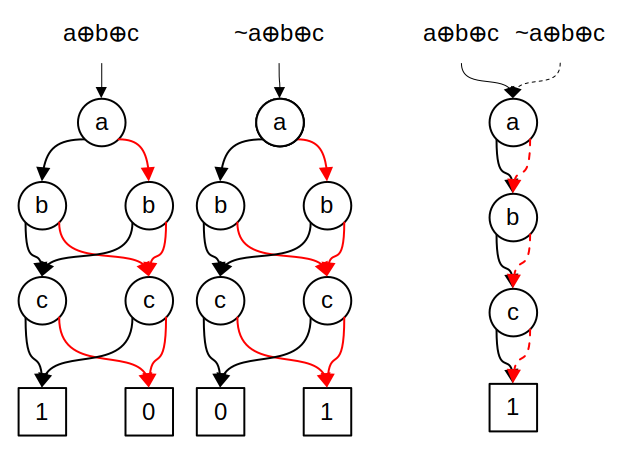
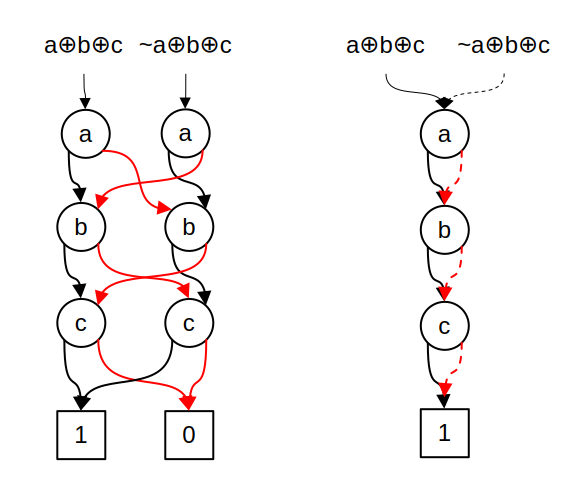
Minor changes.
1) Fix figure used in README.md.
2) Fix typos in README.md.
3) Make types consistent in BddImpl.h.

diff --git a/src/BddImpl.h b/src/BddImpl.h
@@ -29,10 +29,11 @@ const unsigned int BDD_VEC_LG_SZ = 14;
 const unsigned int BDD_VEC_SZ = (1<<BDD_VEC_LG_SZ);
 const unsigned int BDD_VEC_MASK = (BDD_VEC_SZ-1);
 
-const int DFLT_VAR_SZ = 0;
-const int DFLT_NODE_SZ = UINT32_MAX;
-const int DFLT_CACHE_SZ = (1<<20);
+const unsigned int DFLT_VAR_SZ = 0;
+const unsigned long DFLT_NODE_SZ = UINT32_MAX;
+const unsigned long DFLT_CACHE_SZ = (1<<20);
 
+const double DFLT_REORDER_GROWTH_FACTOR = 1.25;
 } // anonymous namespace
 
 
@@ -191,7 +192,9 @@ private:
   using bddCntMap = std::map<BDD, unsigned int>;
   unsigned int getNextBddVar();
   unsigned long maxSize(unsigned long startSz) {
-    return std::min(startSz + (startSz>>1), _maxNodes);
+    unsigned long maxSz = startSz * DFLT_REORDER_GROWTH_FACTOR;
+    return std::min(maxSz, _maxNodes);
+    //return std::min(startSz + (startSz>>1), _maxNodes);
   } // maxSize
   void sift_udu(unsigned int index);
   void sift_dud(unsigned int index);

diff --git a/README.md b/README.md
@@ -12,7 +12,7 @@ Bryant [^BRB] with Rudell's sifting algorithm added for variable
 reordering [^Rud]. Beginning in 2024, I revisited the code and have
 made some major changes:
 
-- Large portions have been rewritten in C++.
+- All code has converted to C++.
 - The _ite()_ algorithm has been largely replaced by dedicated
   algorithms for computing the _and_ and _xor_ functions. The _ite()_
   algorithm is used for functional composition only.
@@ -34,7 +34,7 @@ made some major changes:
 - Also, there are three less useful example programs which may be
   instructional.
   - An n-queens solver.
-  - An application with reads a form of the ISCAS-85 benchmarks and
+  - An application which reads a form of the ISCAS-85 benchmarks and
     builds BDDs for each gate.
   - A Sudoku solver.
 
@@ -47,7 +47,7 @@ at the same time while BuDDy has a single, global manager.  Both abide
 and BuDDy represent edges as 32-bit integers. In CUDD, edges are
 pointers which require 64 bits on modern architectures. This means
 that the size of a node structure is smaller in abide and BuDDy: 20
-bytes versus 32 bytes in CUDD. Both abide and CUDD us complemented
+bytes versus 32 bytes in CUDD. Both abide and CUDD use complemented
 edges to represent the negation of a function.  Using complemented
 edges allows function inversion to be done on $O(1)$ time instead of
 $O(n)$ time. It also results in smaller BDDs with fewer nodes. Below
